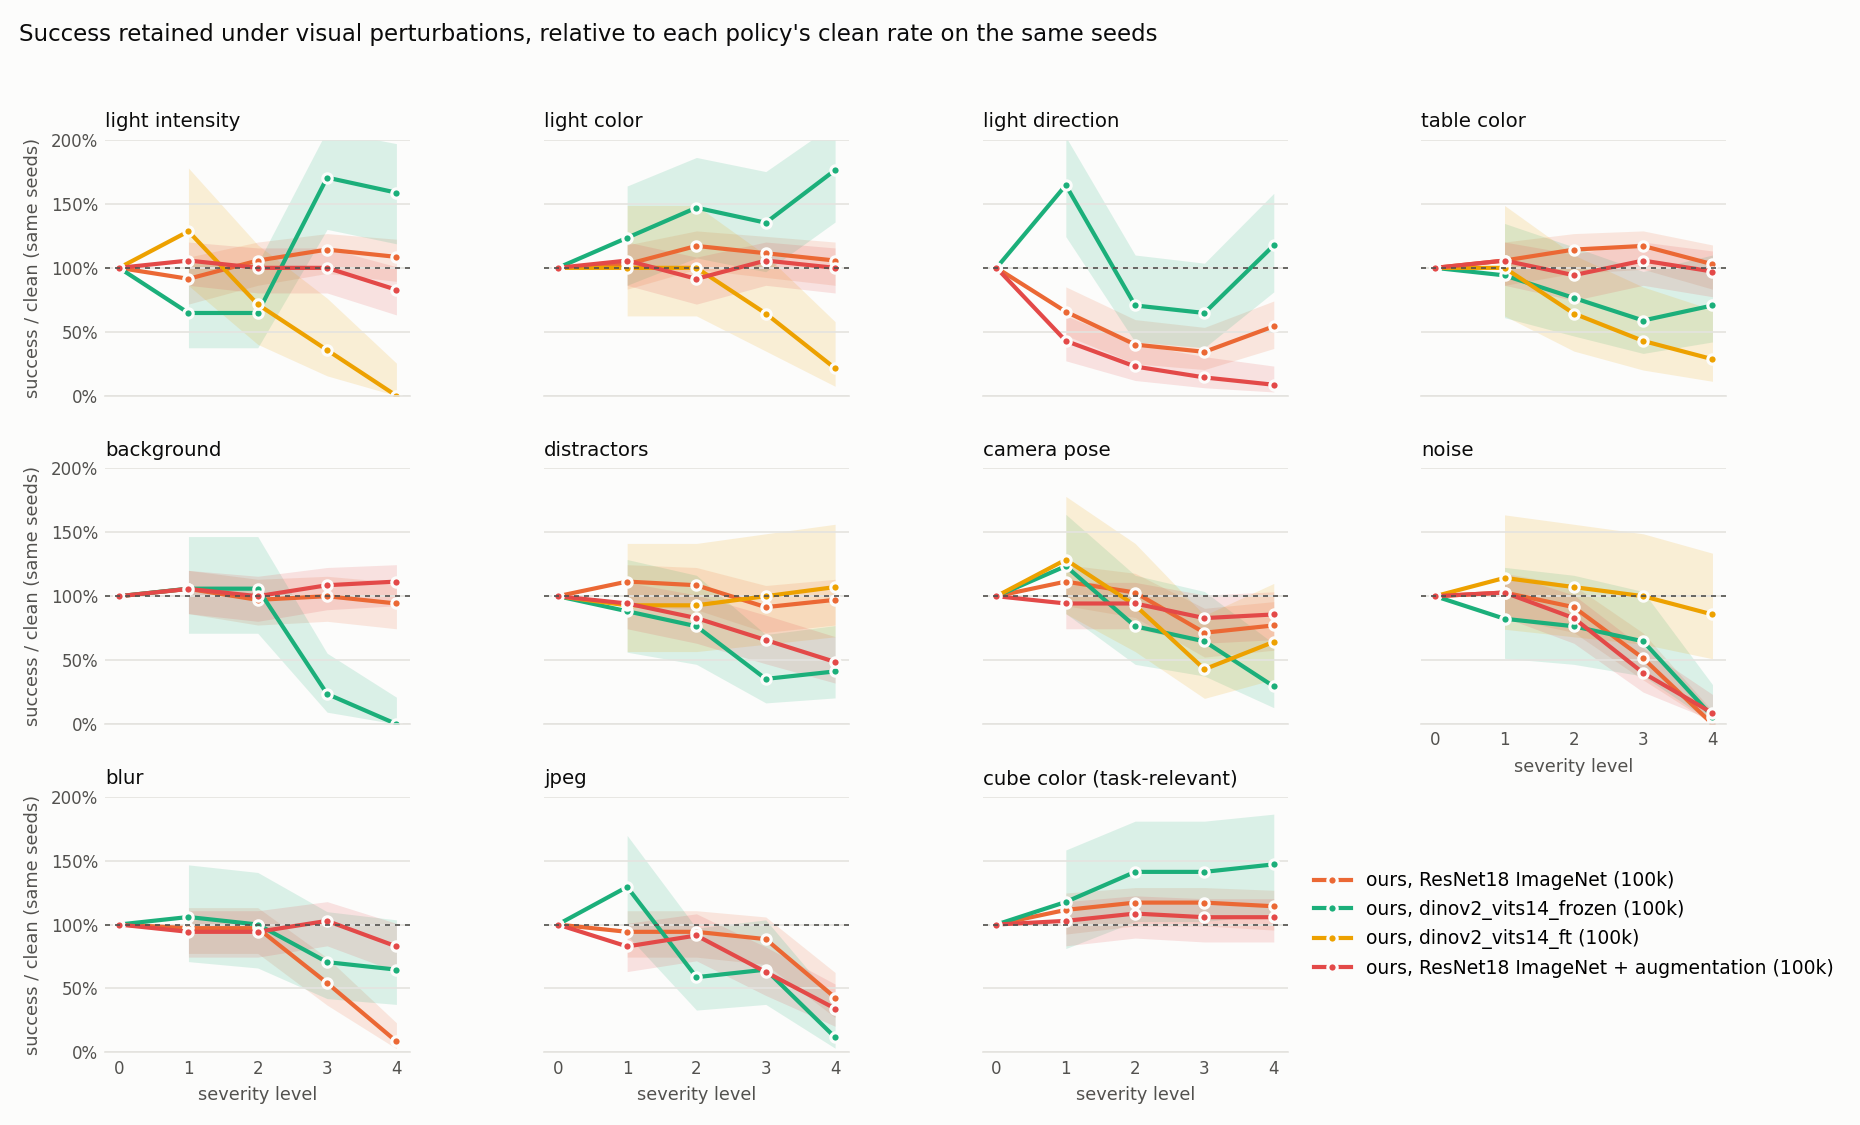
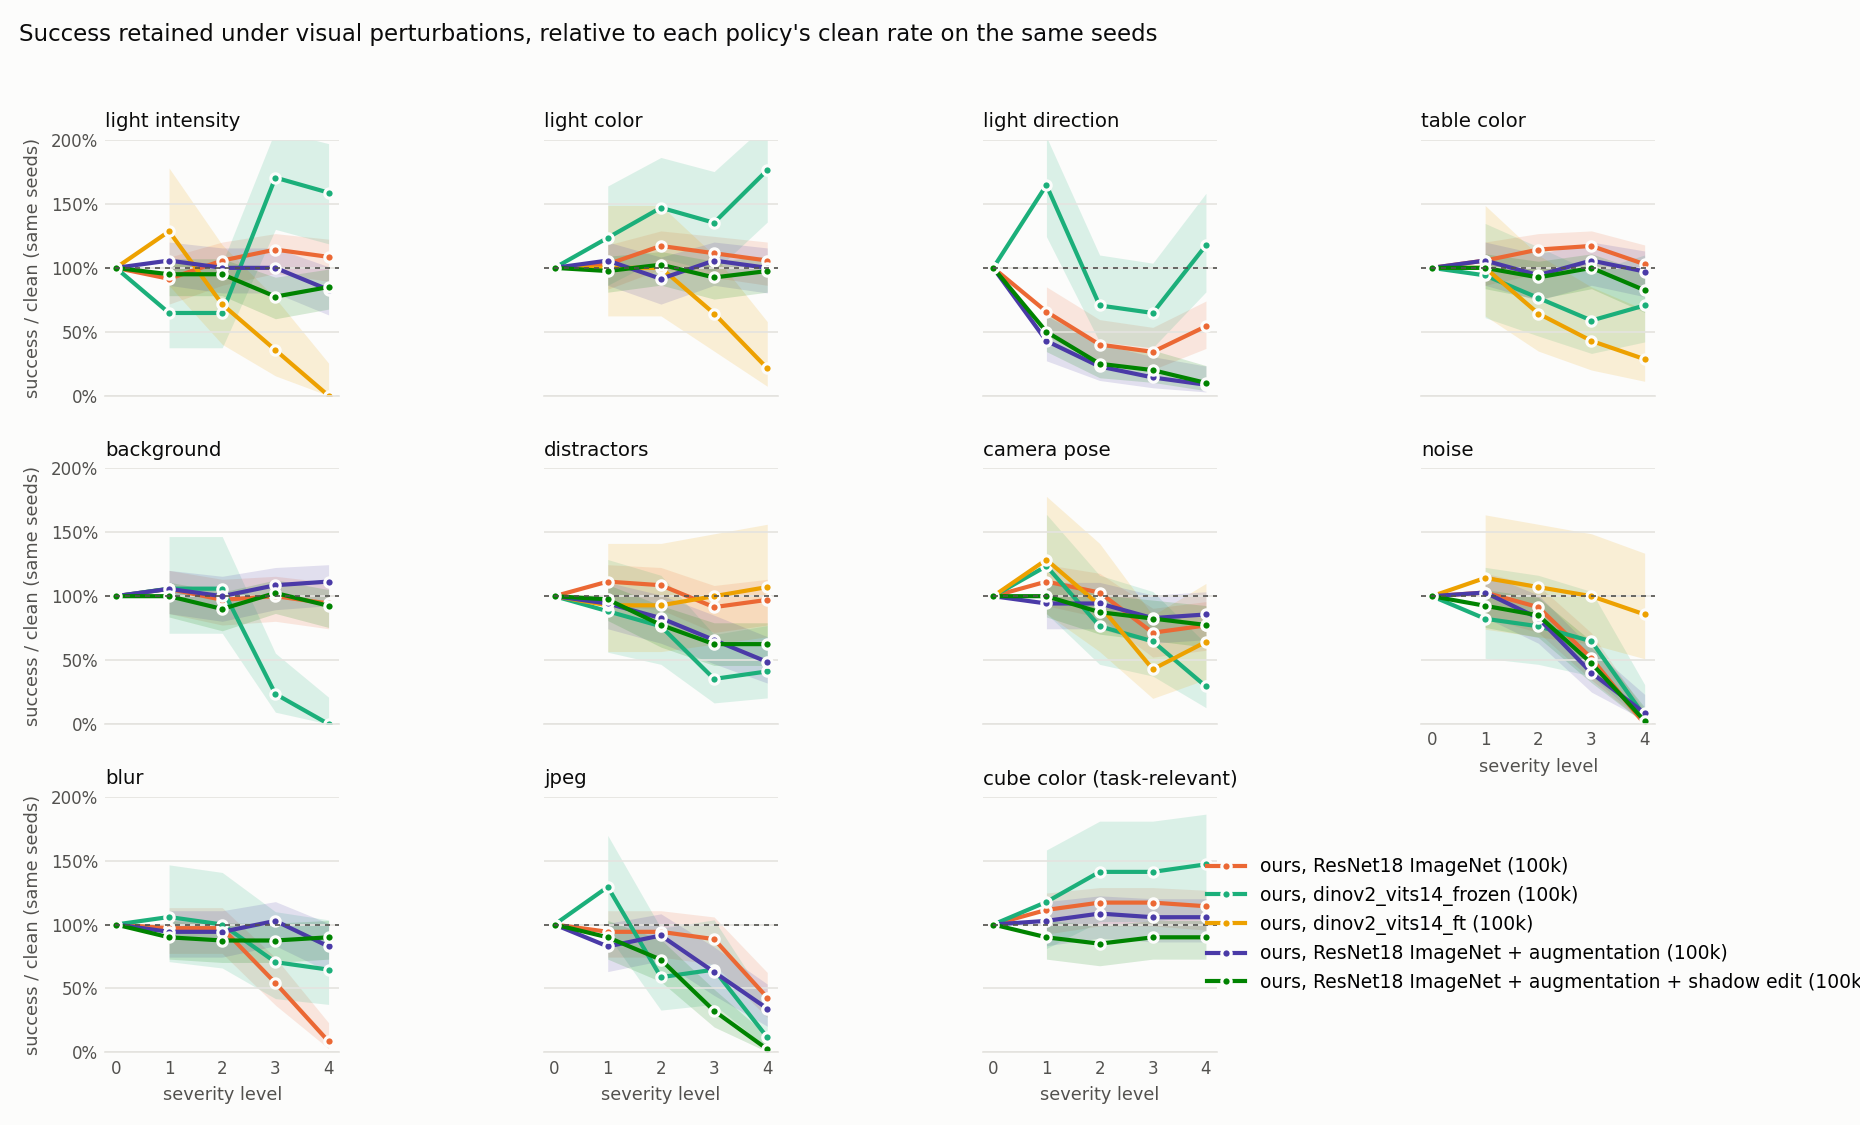
Robustness figures with run B and fixed colors; keep long legend labels inside the saved figure

diff --git a/src/avr/analysis/robustness.py b/src/avr/analysis/robustness.py
@@ -164,5 +164,5 @@ def plot_robustness(results: dict[str, dict], clean_rates: dict[str, float] | No
     fig.suptitle(title, x=0.01, ha="left", fontsize=11, color=TEXT_PRIMARY)
     fig.tight_layout(rect=(0, 0, 1, 0.96))
     if path:
-        fig.savefig(path, dpi=150, facecolor=SURFACE)
+        fig.savefig(path, dpi=150, facecolor=SURFACE, bbox_inches="tight")  # long legend labels stay inside
     return fig
